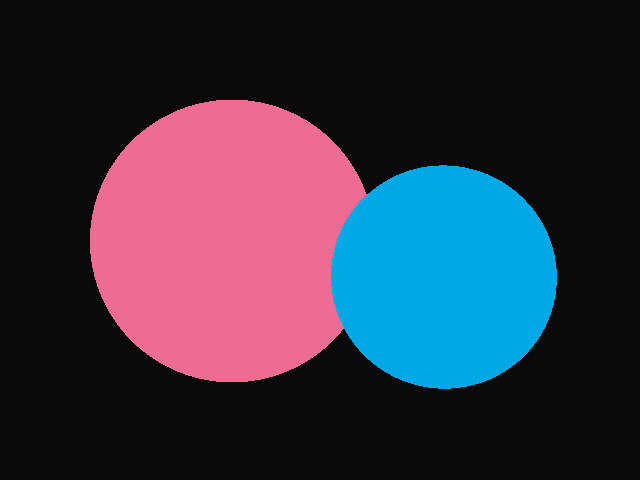
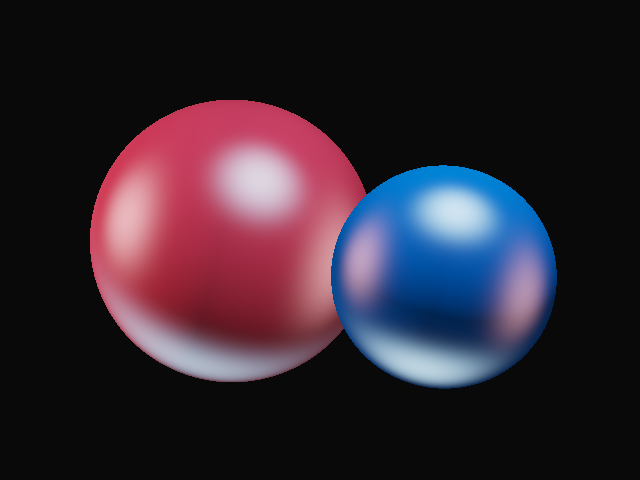
Add diffuse and specular illumination

diff --git a/Graphics/tick1/src/uk/ac/cam/cl/gfxintro/gtf23/tick1/Renderer.java b/Graphics/tick1/src/uk/ac/cam/cl/gfxintro/gtf23/tick1/Renderer.java
@@ -3,6 +3,8 @@ package tick1;
 import java.awt.image.BufferedImage;
 import java.util.List;
 
+import static java.lang.Double.max;
+
 public class Renderer {
 	
 	// The width and height of the image in pixels
@@ -68,7 +70,7 @@ public class Renderer {
 		double k_s = object.getPhong_kS();
 		double alpha = object.getPhong_alpha();
 
-		// TODO: Add ambient light term to start with 
+		colourToReturn = I_a.scale(C_diff);
 
 		// Loop over each point light source
 		List<PointLight> pointLights = scene.getPointLights();
@@ -80,11 +82,18 @@ public class Renderer {
 			ColorRGB C_spec = light.getColour();
 			ColorRGB I = light.getIlluminationAt(distanceToLight);
 
-			// TODO: Calculate L, V, R
-			// TODO: Calculate ColorRGB diffuse and ColorRGB specular terms
-			// TODO: Add these terms to colourToReturn
+			// Calculate L, V, R
+			Vector3 L = light.getPosition().subtract(P).normalised(); //normalized vector from point of intersection to light source
+			Vector3 V = P.subtract(O).normalised(); //normalized vector from position to origin of ray
+			Vector3 R = L.subtract(N.scale(2*L.dot(N)));
 
-			colourToReturn = object.getColour(); // TODO: remove this line
+			// Calculate ColorRGB diffuse and ColorRGB specular terms
+			ColorRGB diffuse = C_diff.scale(k_d).scale(I).scale(max(0.0, N.dot(L)));
+			ColorRGB specular = C_spec.scale(k_s).scale(I).scale(max(0, Math.pow(R.dot(V), alpha)));
+
+			//  Add these terms to colourToReturn
+
+			colourToReturn = colourToReturn.add(diffuse.add(specular));
 
 
 		}
